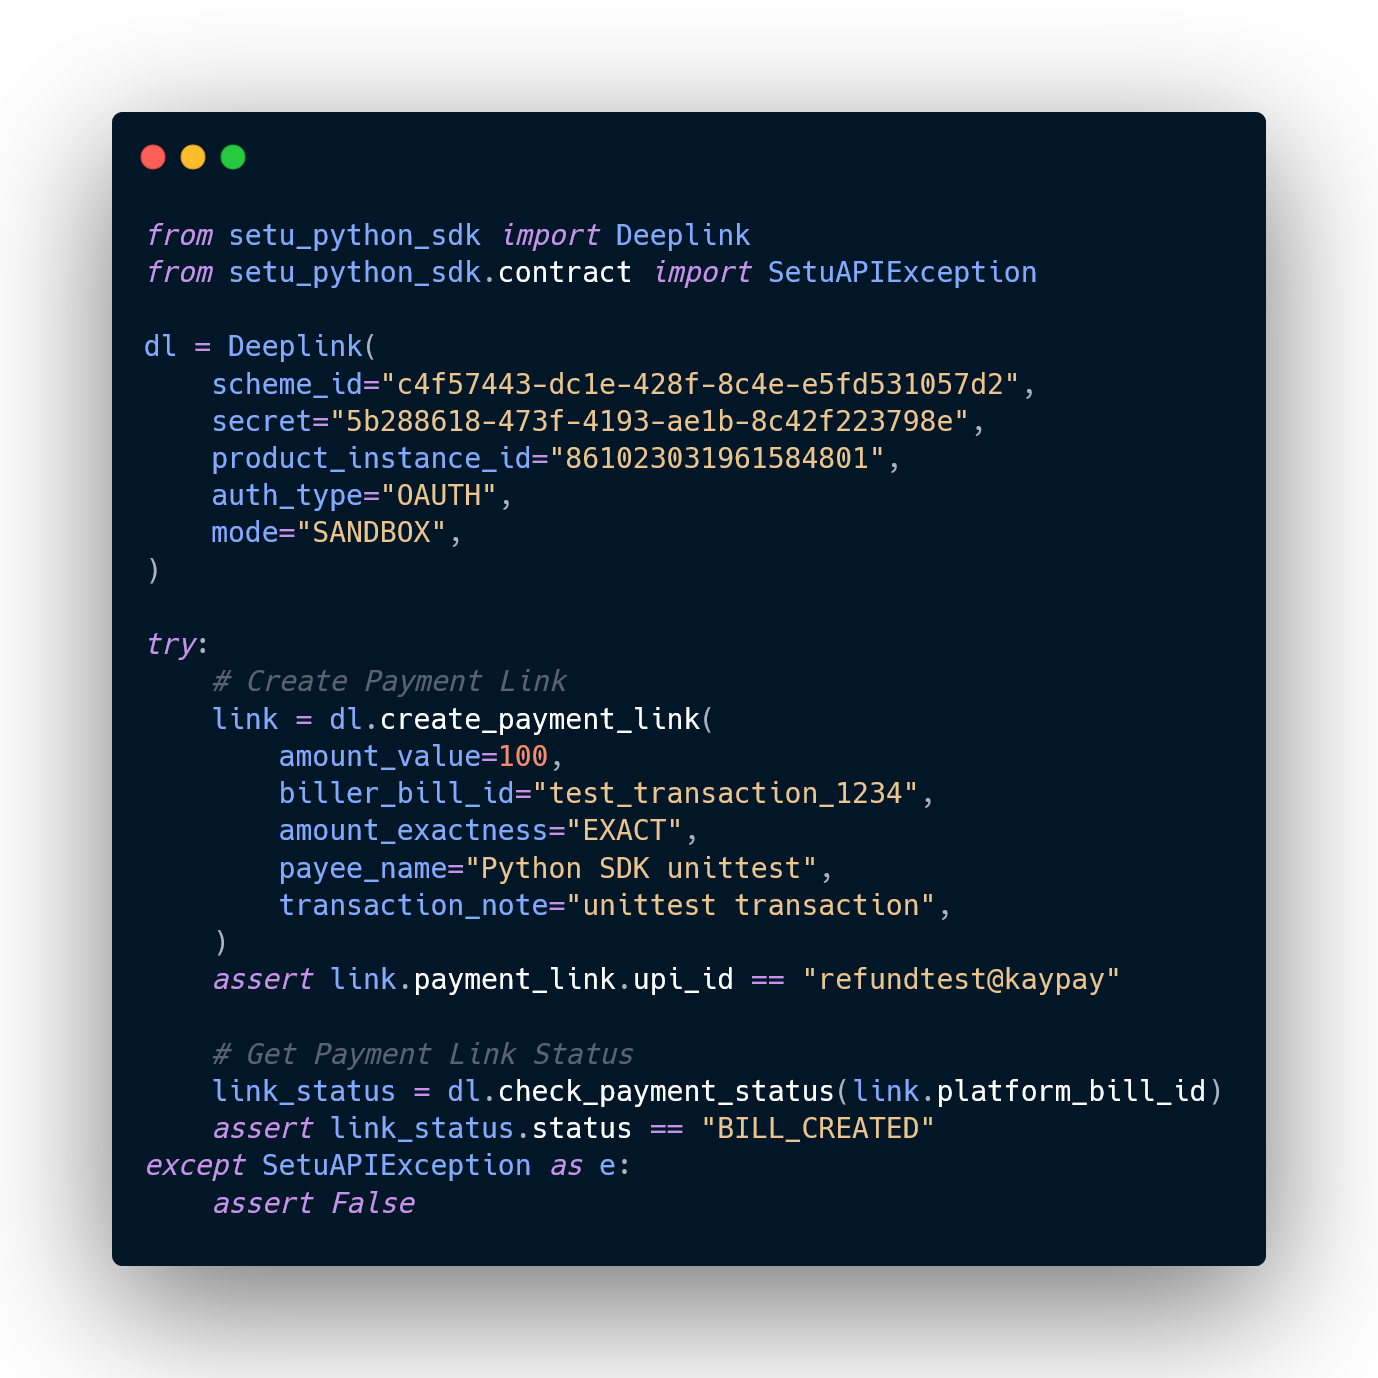
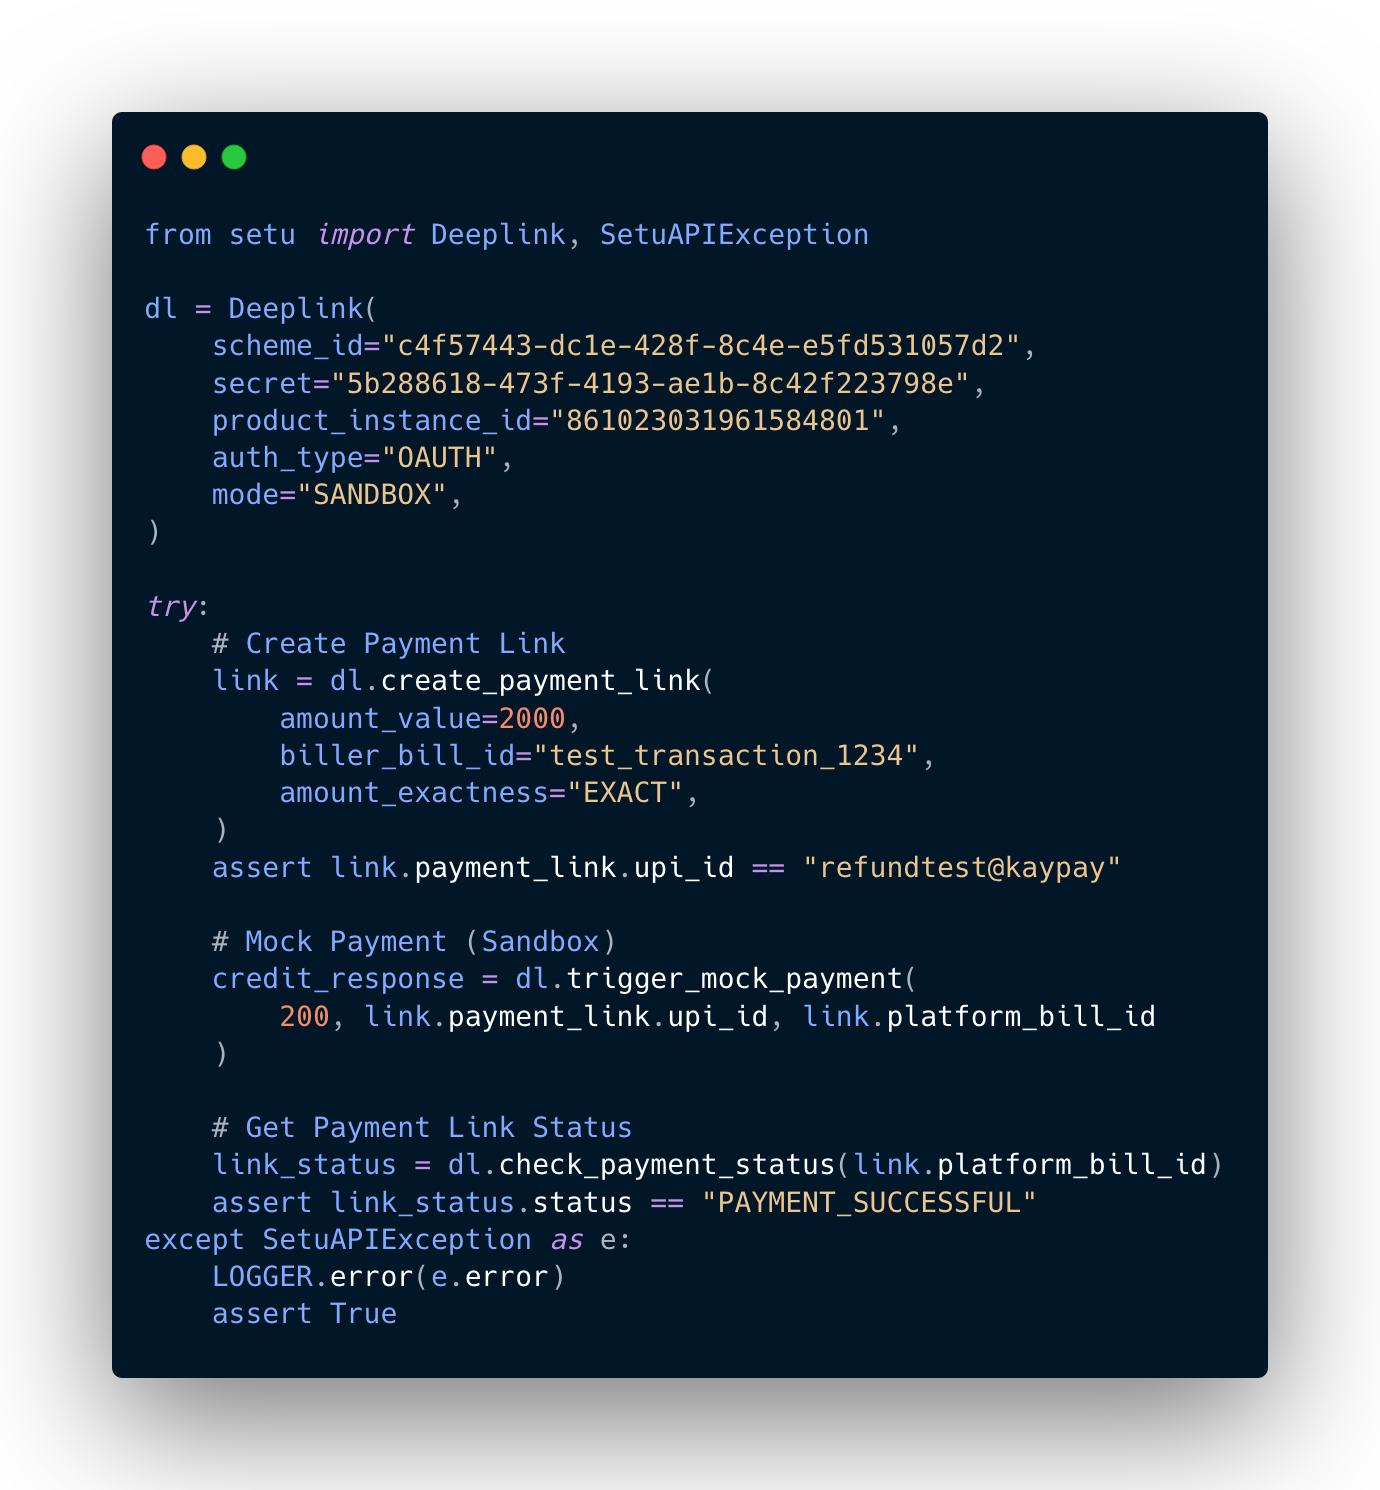
Make SetuAPIException accessible from package index

diff --git a/tests/test_deeplink.py b/tests/test_deeplink.py
@@ -3,8 +3,8 @@ import logging
 import time
 from datetime import datetime, timedelta
 
-from setu import Deeplink
-from setu.contract import Account, RefundRequestItem, SettlementSplits, SetuAPIException, SplitAccount
+from setu import Deeplink, SetuAPIException
+from setu.contract import Account, RefundRequestItem, SettlementSplits, SplitAccount
 
 LOGGER = logging.getLogger(__name__)
 

diff --git a/setu/__init__.py b/setu/__init__.py
@@ -1,6 +1,7 @@
 """Top-level package for Setu UPI DeepLinks SDK."""
 from setu.deeplink import Deeplink
+from setu.contract import SetuAPIException
 
 __version__ = '1.1.0'
 
-__all__ = ["Deeplink"]
+__all__ = ["Deeplink", "SetuAPIException"]

diff --git a/README.md b/README.md
@@ -2,8 +2,8 @@
 
 `setu` is a Python SDK for accessing Setu’s [UPI Deeplinks](https://docs.setu.co/collect/biller/upi-deep-links) APIs. The SDK is designed with ease of access in mind, with native Python class objects for inputs & ouputs and custom exceptions.
 
-[![Version](https://img.shields.io/pypi/v/setu?color=%2320014B)](https://pypi.org/project/setu-python-sdk)
-[![Downloads](https://img.shields.io/pypi/dw/setu?color=%23FEB452)](https://www.npmjs.org/package/@setu/upi-deep-links)
+[![Version](https://img.shields.io/pypi/v/setu?color=%2320014B)](https://pypi.org/project/setu)
+[![Downloads](https://img.shields.io/pypi/dw/setu?color=%23FEB452)](https://pypi.org/project/setu)
 [![License](https://img.shields.io/pypi/l/setu?color=%23FE90A0)](LICENSE.md)
 
 <img src="assets/deeplinks.png" alt="SDK in action" width="100%">
@@ -12,8 +12,8 @@ Python package to connect to Setu's UPI Deep Link APIs
 
 ## Getting started
 
-[SDK documentation →](https://opensource.setu.co/setu-python-sdk)
-[Full documentation →](https://docs.setu.co/payments/upi-deeplinks)
+[SDK documentation →](https://opensource.setu.co/setu-python-sdk) .
+[Full documentation →](https://docs.setu.co/payments/upi-deeplinks) .
 [Product overview →](https://setu.co/payments/upi-deeplinks)
 
 ### Installation
@@ -74,7 +74,7 @@ except SetuAPIException as e:
     assert False
 ```
 
-# Trigger mock payment for UPI payment link (Sandbox only)
+### Trigger mock payment for UPI payment link (Sandbox only)
 
 ```python
 try:

diff --git a/assets/preview.md b/assets/preview.md
@@ -1,0 +1,32 @@
+```python
+from setu import Deeplink, SetuAPIException
+
+dl = Deeplink(
+    scheme_id="c4f57443-dc1e-428f-8c4e-e5fd531057d2",
+    secret="5b288618-473f-4193-ae1b-8c42f223798e",
+    product_instance_id="861023031961584801",
+    auth_type="OAUTH",
+    mode="SANDBOX",
+)
+
+try:
+    # Create Payment Link
+    link = dl.create_payment_link(
+        amount_value=2000,
+        biller_bill_id="test_transaction_1234",
+        amount_exactness="EXACT",
+    )
+    assert link.payment_link.upi_id == "refundtest@kaypay"
+
+    # Mock Payment (Sandbox)
+    credit_response = dl.trigger_mock_payment(
+        200, link.payment_link.upi_id, link.platform_bill_id
+    )
+
+    # Get Payment Link Status
+    link_status = dl.check_payment_status(link.platform_bill_id)
+    assert link_status.status == "PAYMENT_SUCCESSFUL"
+except SetuAPIException as e:
+    LOGGER.error(e.error)
+    assert True
+```
